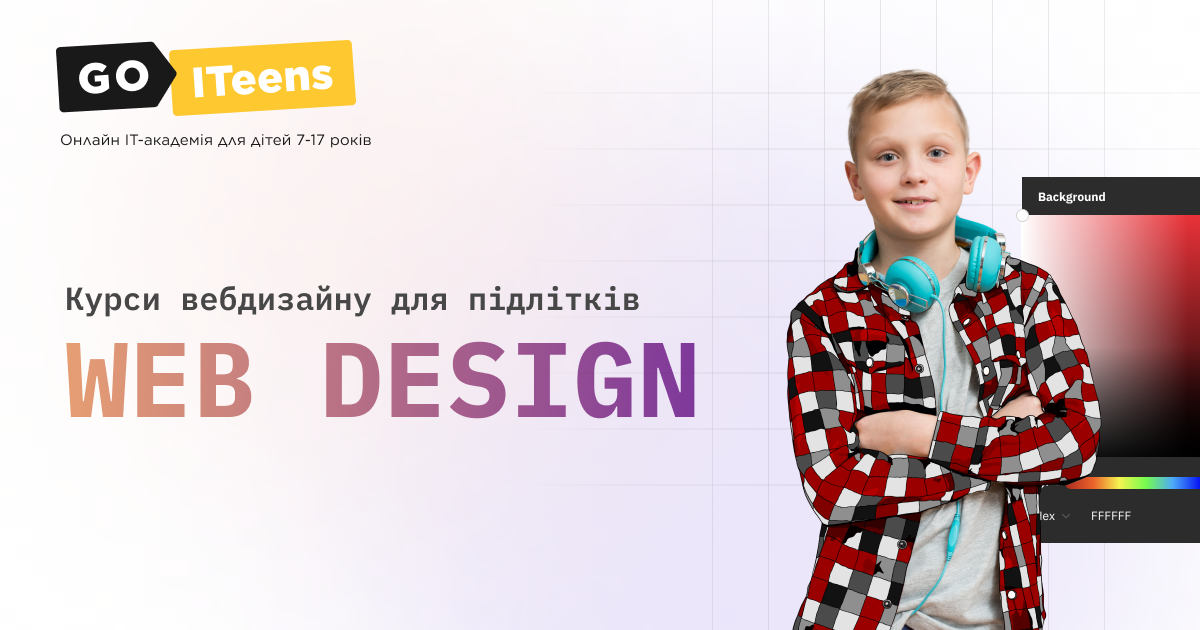
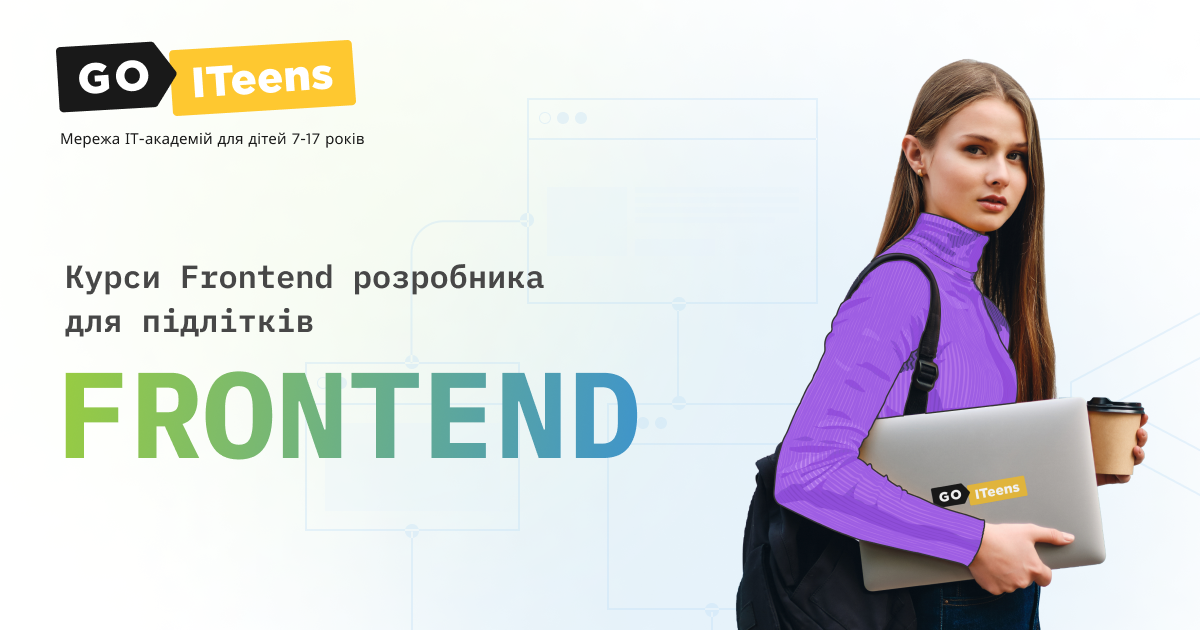
change OGP, add mobile phone in header

diff --git a/src/html/partials/sections/header.html b/src/html/partials/sections/header.html
@@ -1,24 +1,30 @@
 {% set section = header %}
 <header class="{{section.id}} py-[27px] notXl:shadow-gray md:py-8 xl:py-[18px] xxl:py-3">
   <div class="container">
-    <!-- <div class="flex items-center justify-between"> -->
-    <div class="xl:grid xl:gap-2">
-      <a href="{{page.canonical}}" aria-label="{{logo.link_logo_aria}}">
-        <svg
-          class="md:h-9 md:w-[142px] xl:h-6 xl:w-[96px] xxl:h-9 xxl:w-[142px]"
-          width="118"
-          height="30"
-          aria-label="{{logo.logo_aria}}"
+    <div class="flex items-center justify-between">
+      <div class="xl:grid xl:gap-2">
+        <a href="{{page.canonical}}" aria-label="{{logo.link_logo_aria}}">
+          <svg
+            class="md:h-9 md:w-[142px] xl:h-6 xl:w-[96px] xxl:h-9 xxl:w-[142px]"
+            width="118"
+            height="30"
+            aria-label="{{logo.logo_aria}}"
+          >
+            <title>{{logo.logo_aria}}</title>
+            <use href="./assets/images/sprite.svg#logo"></use>
+          </svg>
+        </a>
+        <p
+          class="hidden font-gotham xl:block xl:max-w-[102px] xl:text-[10px] xl:leading-[1.6] xl:tracking-[0.1px] xl:text-[#1A1A1A] xxl:max-w-[123px] xxl:text-xs xxl:tracking-[0.12px]"
         >
-          <title>{{logo.logo_aria}}</title>
-          <use href="./assets/images/sprite.svg#logo"></use>
-        </svg>
-      </a>
-      <p
-        class="hidden font-gotham xl:block xl:max-w-[102px] xl:text-[10px] xl:leading-[1.6] xl:tracking-[0.1px] xl:text-[#1A1A1A] xxl:max-w-[123px] xxl:text-xs xxl:tracking-[0.12px]"
+          {{section.textLogo}}
+        </p>
+      </div>
+      <a
+        href="{{section.number.link}}"
+        class="font-IBMPlexMono font-bold leading-[1.13] text-purple-D9 hover:text-purple-E0 focus:text-purple-E0 md:text-xl"
+        >{{section.number.text}}</a
       >
-        {{section.textLogo}}
-      </p>
     </div>
   </div>
 </header>

diff --git a/src/html/partials/sections/studying.html b/src/html/partials/sections/studying.html
@@ -4,7 +4,7 @@
 >
   <!-- <div class="mb-[160px] md:mb-[178px] xl:hidden">
     <h2
-      class="mb-5 text-center font-IBMPlexMono text-[18px] font-semibold uppercase text-blue-D9 md:mb-6 md:text-2xl"
+      class="mb-5 text-center font-IBMPlexMono text-[18px] font-semibold uppercase text-purple-D9 md:mb-6 md:text-2xl"
     >
       {{section.title}}
     </h2>
@@ -12,7 +12,7 @@
   </div> -->
   <!-- <div class="scroll-panel hidden flex-col items-center justify-center xl:flex">
     <h2
-      class="mb-5 text-center font-IBMPlexMono text-[18px] font-semibold uppercase text-blue-D9 md:mb-6 md:text-2xl xl:mb-10 xl:max-w-[984px] xl:text-[32px]"
+      class="mb-5 text-center font-IBMPlexMono text-[18px] font-semibold uppercase text-purple-D9 md:mb-6 md:text-2xl xl:mb-10 xl:max-w-[984px] xl:text-[32px]"
     >
       {{section.title}}
     </h2>

diff --git a/tailwind.config.js b/tailwind.config.js
@@ -62,8 +62,10 @@ module.exports = {
         },
         yellow: '#FEC830',
 
-        blue: {
+        purple: {
           D9: '#653CD9',
+          B2: '#5331B2',
+          E0: '#8160E0',
         },
         pink: '#F5BAE2',
       },
